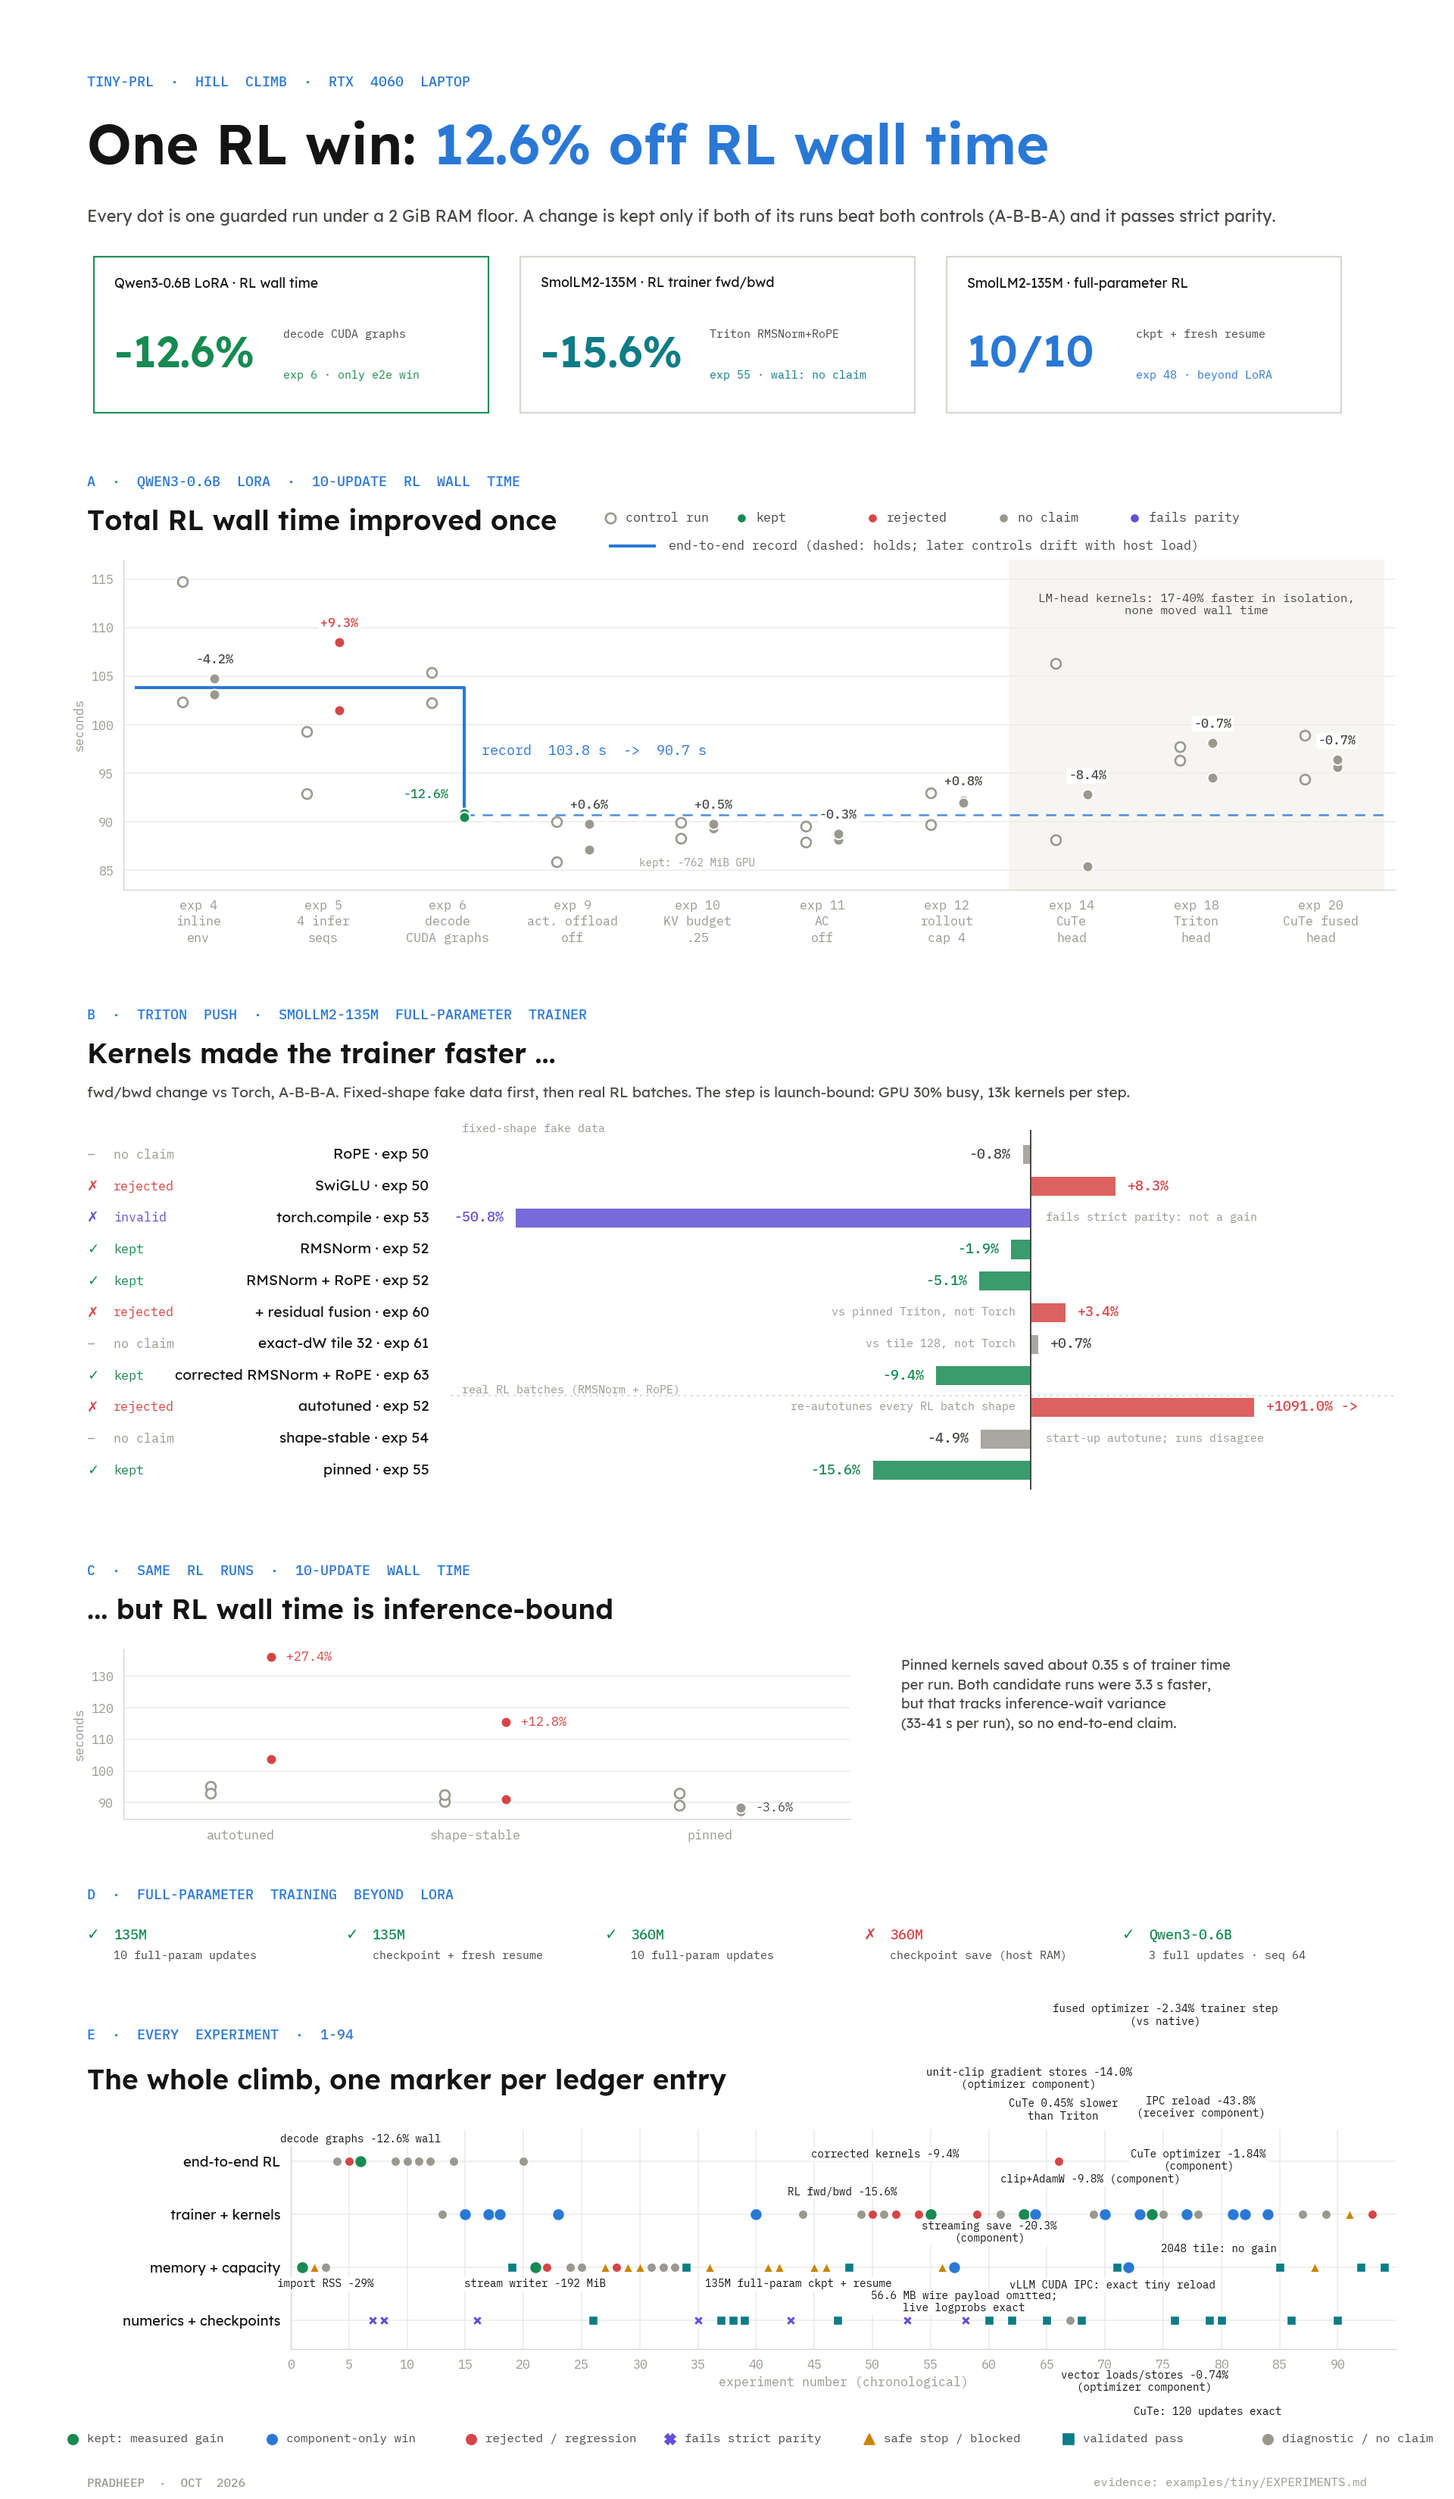
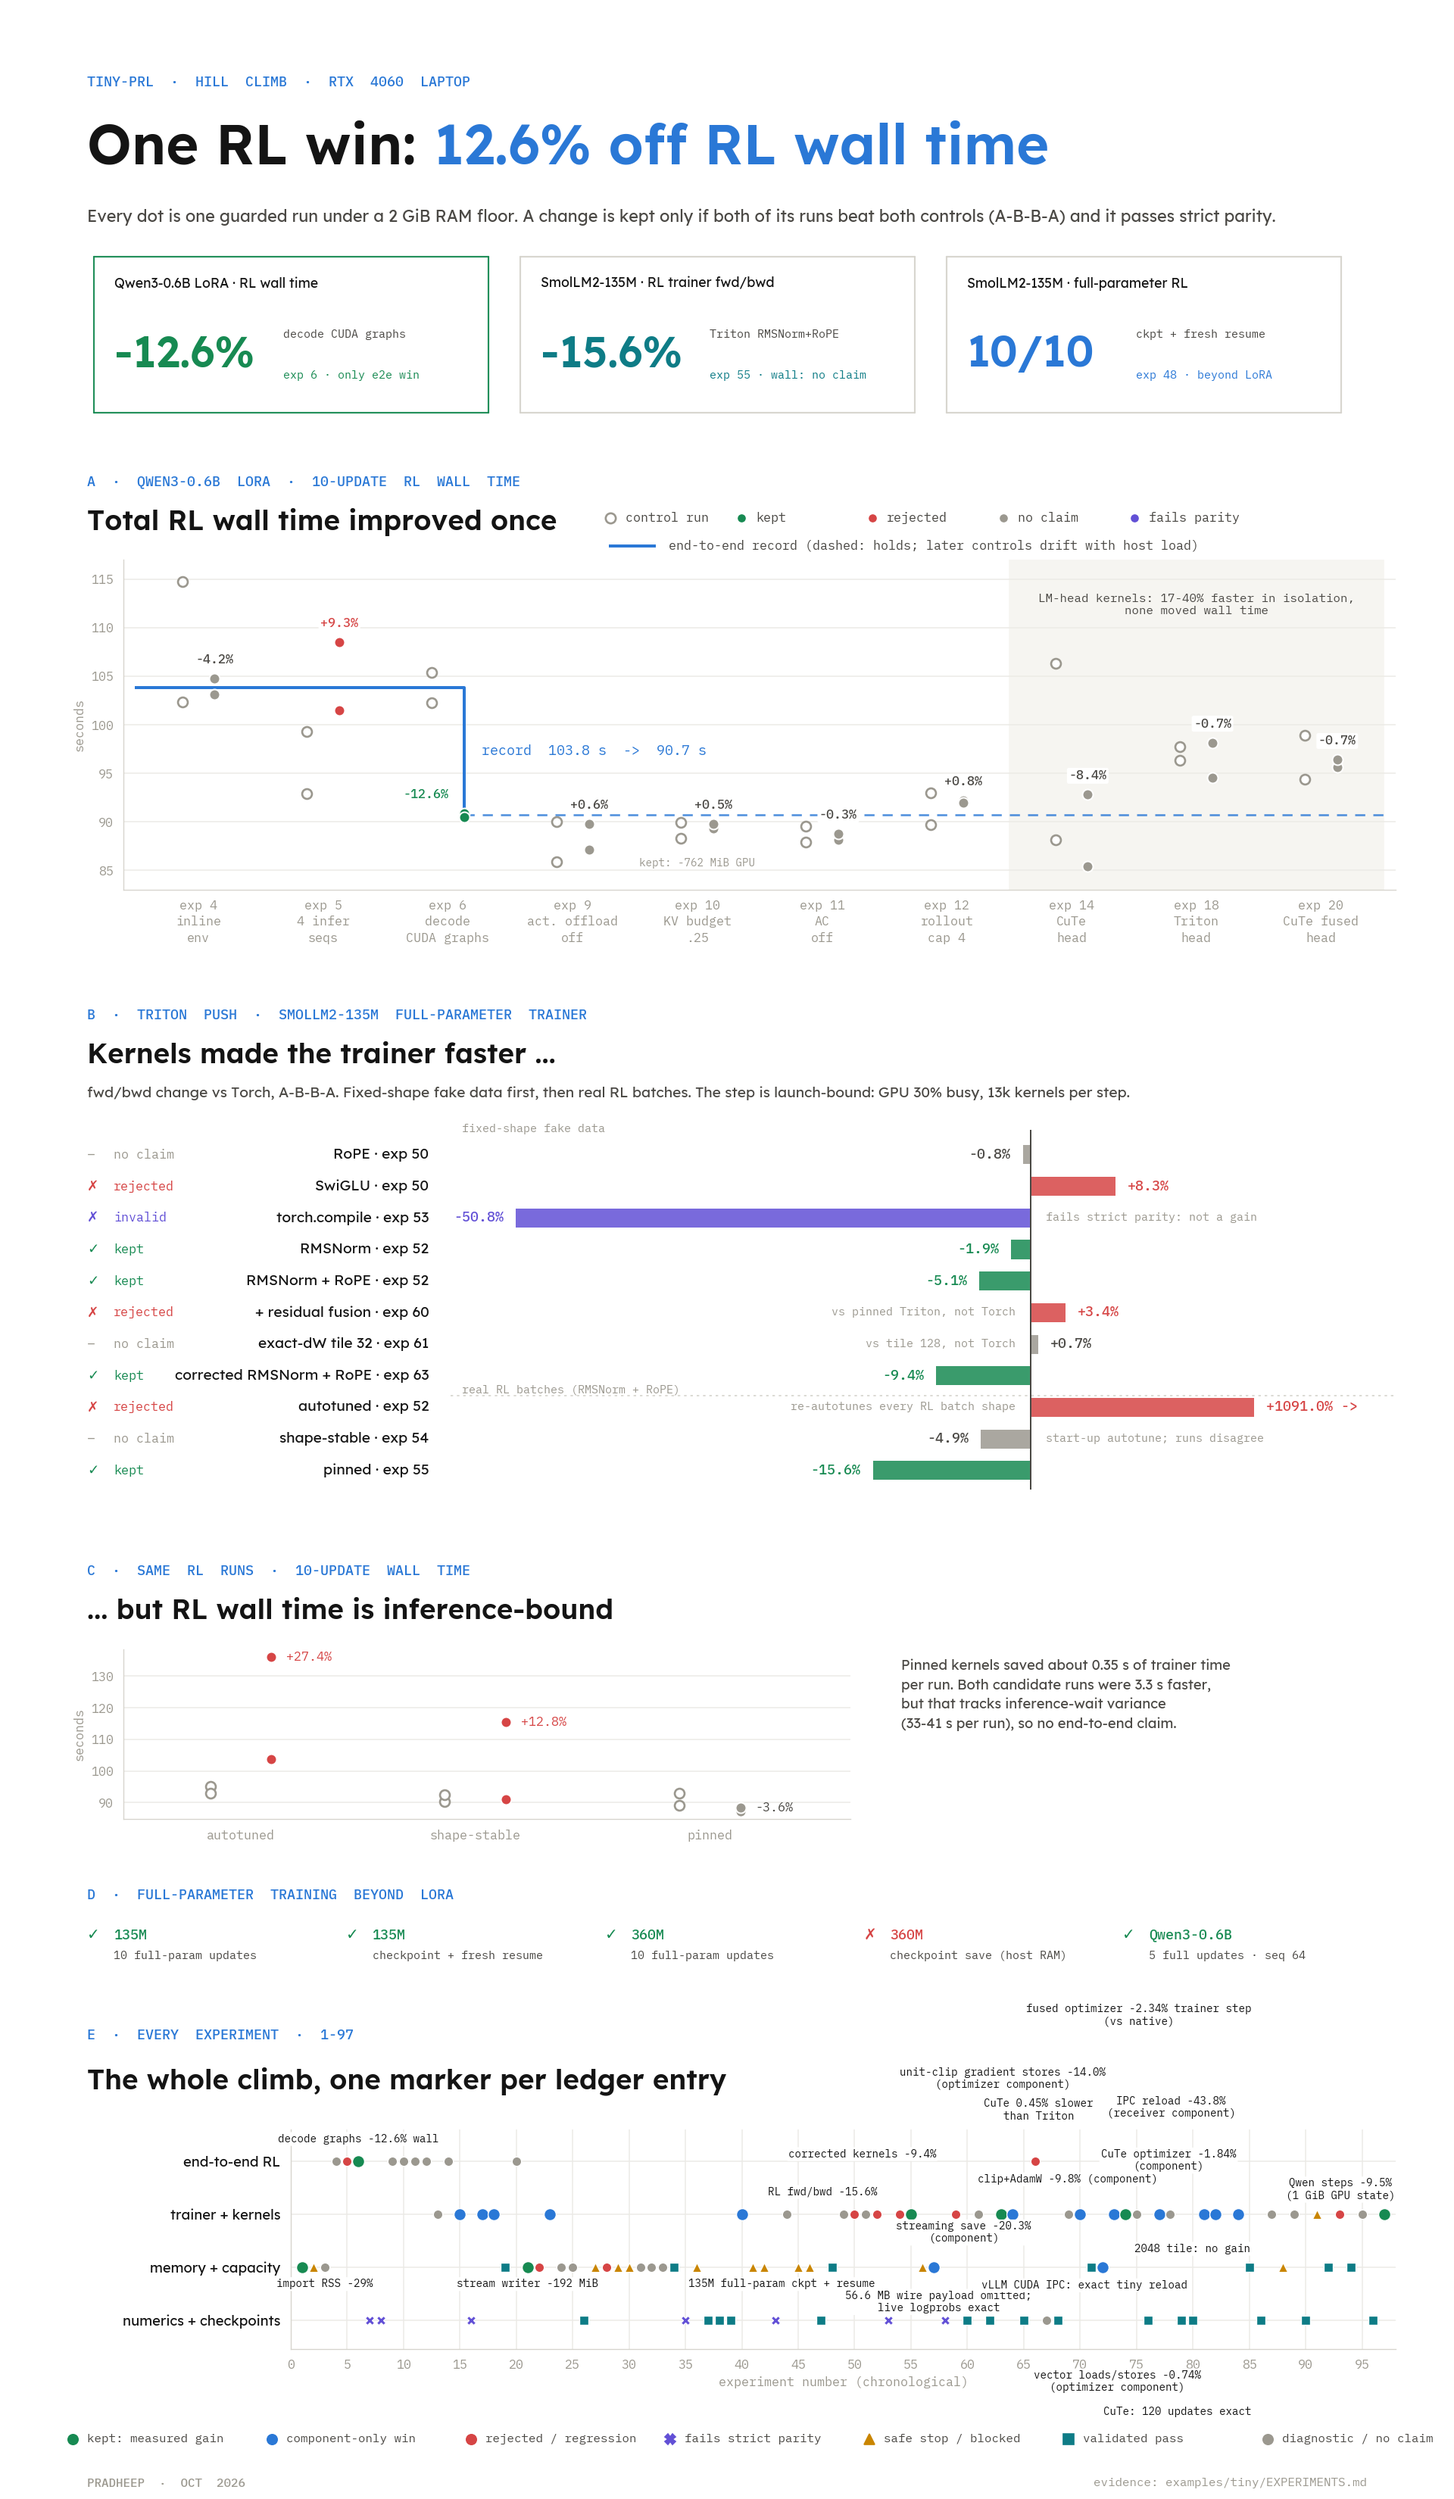
Add the measured Qwen full-training profile

diff --git a/tools/plot_tiny_hillclimb.py b/tools/plot_tiny_hillclimb.py
@@ -190,6 +190,9 @@ EXPERIMENTS = {
     92: (MEM, "validated"),
     93: (TRAIN, "rejected"),
     94: (MEM, "validated"),
+    95: (TRAIN, "none"),
+    96: (NUM, "validated"),
+    97: (TRAIN, "kept"),
 }
 # Callout text with (dx, dy) offsets in points, staggered so neighbours do not collide.
 CALLOUTS = {
@@ -211,6 +214,7 @@ CALLOUTS = {
     83: ("IPC reload -43.8%\n(receiver component)", (-44, 35)),
     84: ("CuTe optimizer -1.84%\n(component)", (-55, 35)),
     86: ("CuTe: 120 updates exact", (-66, -75)),
+    97: ("Qwen steps -9.5%\n(1 GiB GPU state)", (-35, 12)),
 }
 
 MILESTONES = [
@@ -218,7 +222,7 @@ MILESTONES = [
     ("135M", "checkpoint + fresh resume", True),
     ("360M", "10 full-param updates", True),
     ("360M", "checkpoint save (host RAM)", False),
-    ("Qwen3-0.6B", "3 full updates · seq 64", True),
+    ("Qwen3-0.6B", "5 full updates · seq 64", True),
 ]
 
 

diff --git a/examples/tiny/EXPERIMENTS.md b/examples/tiny/EXPERIMENTS.md
@@ -901,3 +901,25 @@ The verified oversized-parameter path is now implemented in `CPUOffloadOptimizer
 All six focused state-offload tests passed under the component guard, including the new exact multi-update, AMSGrad, missing-gradient, stable moment-object and state-dict-resume regression. A separate actual Qwen trainer run used the production `_step_chunked` implementation; its observer only wrapped the new helper to count calls and inspect state, without replacing the algorithm. All three updates passed validation for 596,049,920 FP32 parameters/gradients, both moment families, all 254 optimizer tensors, uniform counters and ten bounded embedding slices per update. No checkpoint was written.
 
[1 lines of base64/hex data omitted]
+
+## Experiment 95: local foreach norm refinements do not establish a trainer gain
+
+Importing `torch.distributed.tensor` registers DTensor in Torch's foreach allowlist; reading only the allowlist's initial declaration missed that registration. A local-view candidate with foreach enabled passed ten bitwise norm/coefficient cases but was slower: native CPU/event medians were 2.722/2.712 ms versus 3.284/3.270 ms. Its profiler still showed 212 `to_local()` conversion calls.
+
+A third candidate read existing local tensor storage directly under `no_grad`, restricted to a one-rank mesh, retaining foreach and the same outer norm. Ten cases again passed. Native CPU/event medians were 2.406/2.396 ms versus 2.363/2.353 ms, a roughly 42 microsecond point estimate. Samples overlapped in both measures, so this does not clear a strict consistent-win gate or establish a trainer gain. Both guards returned 0 in 3.43/3.23 seconds, with at least 10.12 GB available RAM and 651 MiB GPU peak. Neither candidate changes production. Evidence: `outputs/tiny-kernel-20261020/clip-norm-audit-r1/{cuda_norm_profile_r2.py,cuda-result-r2.json,guard-cuda-r2/result.json,cuda_norm_profile_r3.py,cuda-result-r3.json,guard-cuda-r3/result.json}`.
+
+## Experiment 96: live post-update GPU tensors reach a co-resident vLLM worker exactly
+
+One deterministic full-parameter SmolLM2-135M trainer update remained resident while a separate vLLM engine was started on the same GPU. The live state was exported with the production wire rules and matched a same-update filesystem fixture tensor-for-tensor. The producer then cast/gathered each actual trainer tensor directly into a single 64 MB IPC staging slab, without loading a full BF16 wire or sending fixture tensors as the IPC payload. All 272 tensors, 269,030,016 bytes in five buckets, reached vLLM. Filesystem and live IPC outputs matched exactly in greedy tokens and logprobs after a nontrivial update; a reset matched the initial output, tied aliases were preserved and model storage did not alias the imported slab.
+
+The first attempt reached the reset but misinterpreted a void worker RPC return as a proof dictionary. The second fixed that API usage but correctly rejected reuse of a historical, nondeterministic update's fixture. Revision 3 pins the training seed, deterministic algorithms and deterministic FA2, and verifies a fresh same-update fixture whenever historical bytes differ. The failed attempt's generated shard hashes and metadata were retained before removing only its duplicate safetensors payloads. The successful guard returned 0 in 23.87 seconds, with 7.11 GB minimum available RAM, 4.83 GB cgroup peak and 5,068 MiB GPU peak. The post-run validator passed 20 correctness checks and the resource checks. This is direct live-transfer correctness and co-residency evidence, not a full RL-loop speed measurement; the observer's long step includes engine setup and proofs.
+
+Evidence: `outputs/tiny-kernel-20261020/rl-pipeline-audit/ipc-direct-live-r1/{direct_live_ipc.py,validate_direct_live.py,frozen-manifest.json,r1-frozen/,r2-frozen/,r1-fixture-cleanup-manifest.json,actual-r3/result.json,actual-r3/direct-report.json,guard-r3/result.json}`.
+
+## Experiment 97: a 1 GiB GPU moment budget improves Qwen full-training step time
+
[1 lines of base64/hex data omitted]
+
+Control per-run medians were 1.208699 and 1.203617 seconds; candidate medians were 1.089412 and 1.093222 seconds. Averaging those medians gives 1.206158 versus 1.091317 seconds (-9.521%), with both candidate runs beating both controls. GPU-resident moments rose from 520,617,984 to 1,057,488,896 bytes. The oversized embedding's 1,244,659,712 moment bytes remained on CPU and used the same ten bounded slices. Sampled GPU peak rose from 6,721 to 7,221 MiB; candidate minimum available host RAM was at least 4.42 GB. All guards returned 0 in 25.28–26.86 seconds, used no cgroup swap and wrote no checkpoint payload.
+
+Retain the 1 GiB setting in the trainer-only capacity profile, without changing library defaults. This is a short trainer benchmark, not RL wall-time or a general context-length/quality result. Evidence: `outputs/qwen-fulltrain-20261021/gpu-budget-abba-r1/{observer.py,source-hashes.txt,result.json,independent-review.json,A512-1/,B1024-1/,B1024-2/,A512-2/}` and `examples/tiny/qwen3-full-trainer.toml`.

diff --git a/docs/tiny-prl.md b/docs/tiny-prl.md
@@ -16,9 +16,9 @@ group from the environment and writes output to `trainer.log`. This mode has no
 torchrun per-rank logs.
 The tiny profile runs its environment server inline with one worker, avoiding a
 separate broker process while keeping the task's network protocol unchanged.
-The run uses the opt-in `deployment.share_train_infer_gpu` setting with one logical
-trainer GPU and one logical inference GPU mapped to that device. LoRA and
-filesystem weight broadcast are required. vLLM is bounded to a 512-token model
+This recipe uses LoRA and filesystem weight broadcast. It uses the opt-in
+`deployment.share_train_infer_gpu` setting with one logical trainer GPU and one
+logical inference GPU mapped to that device. vLLM is bounded to a 512-token model
 length, two sequences, a 512-token scheduler budget, and 25% GPU memory
 utilization. Torch compilation stays disabled. vLLM captures full CUDA graphs
 for decode batches of one and two sequences; prefill runs without CUDA graphs.
@@ -68,3 +68,16 @@ smoke test succeeds. Record total run time and peak whole-GPU memory while both
 processes are resident; the trainer's peak-memory metric alone does not include
 vLLM's allocation. Fit and performance must be measured on the target machine;
 the recipe alone is not a runtime guarantee.
+
+## Trainer-only full-parameter capacity profile
+
+[`examples/tiny/qwen3-full-trainer.toml`](../examples/tiny/qwen3-full-trainer.toml)
+configures five full-parameter Qwen3-0.6B trainer updates with fake batch size 1,
+sequence length 64, full activation checkpointing, FP32 optimization/reduction,
+and chunked AdamW with a 1 GiB GPU moment budget. Equivalent trainer settings
+completed four guarded five-update comparisons, which found 9.5% lower warm
+step medians at 1 GiB than 512 MiB, with identical hashes for all 1,271 final
+parameter, gradient, buffer and optimizer-state records. This short fake-data
+profile does not configure inference or rollouts and does not establish RL
+quality, co-residency capacity, or longer context support. GPU and host-memory
+fit still depend on the target machine.
